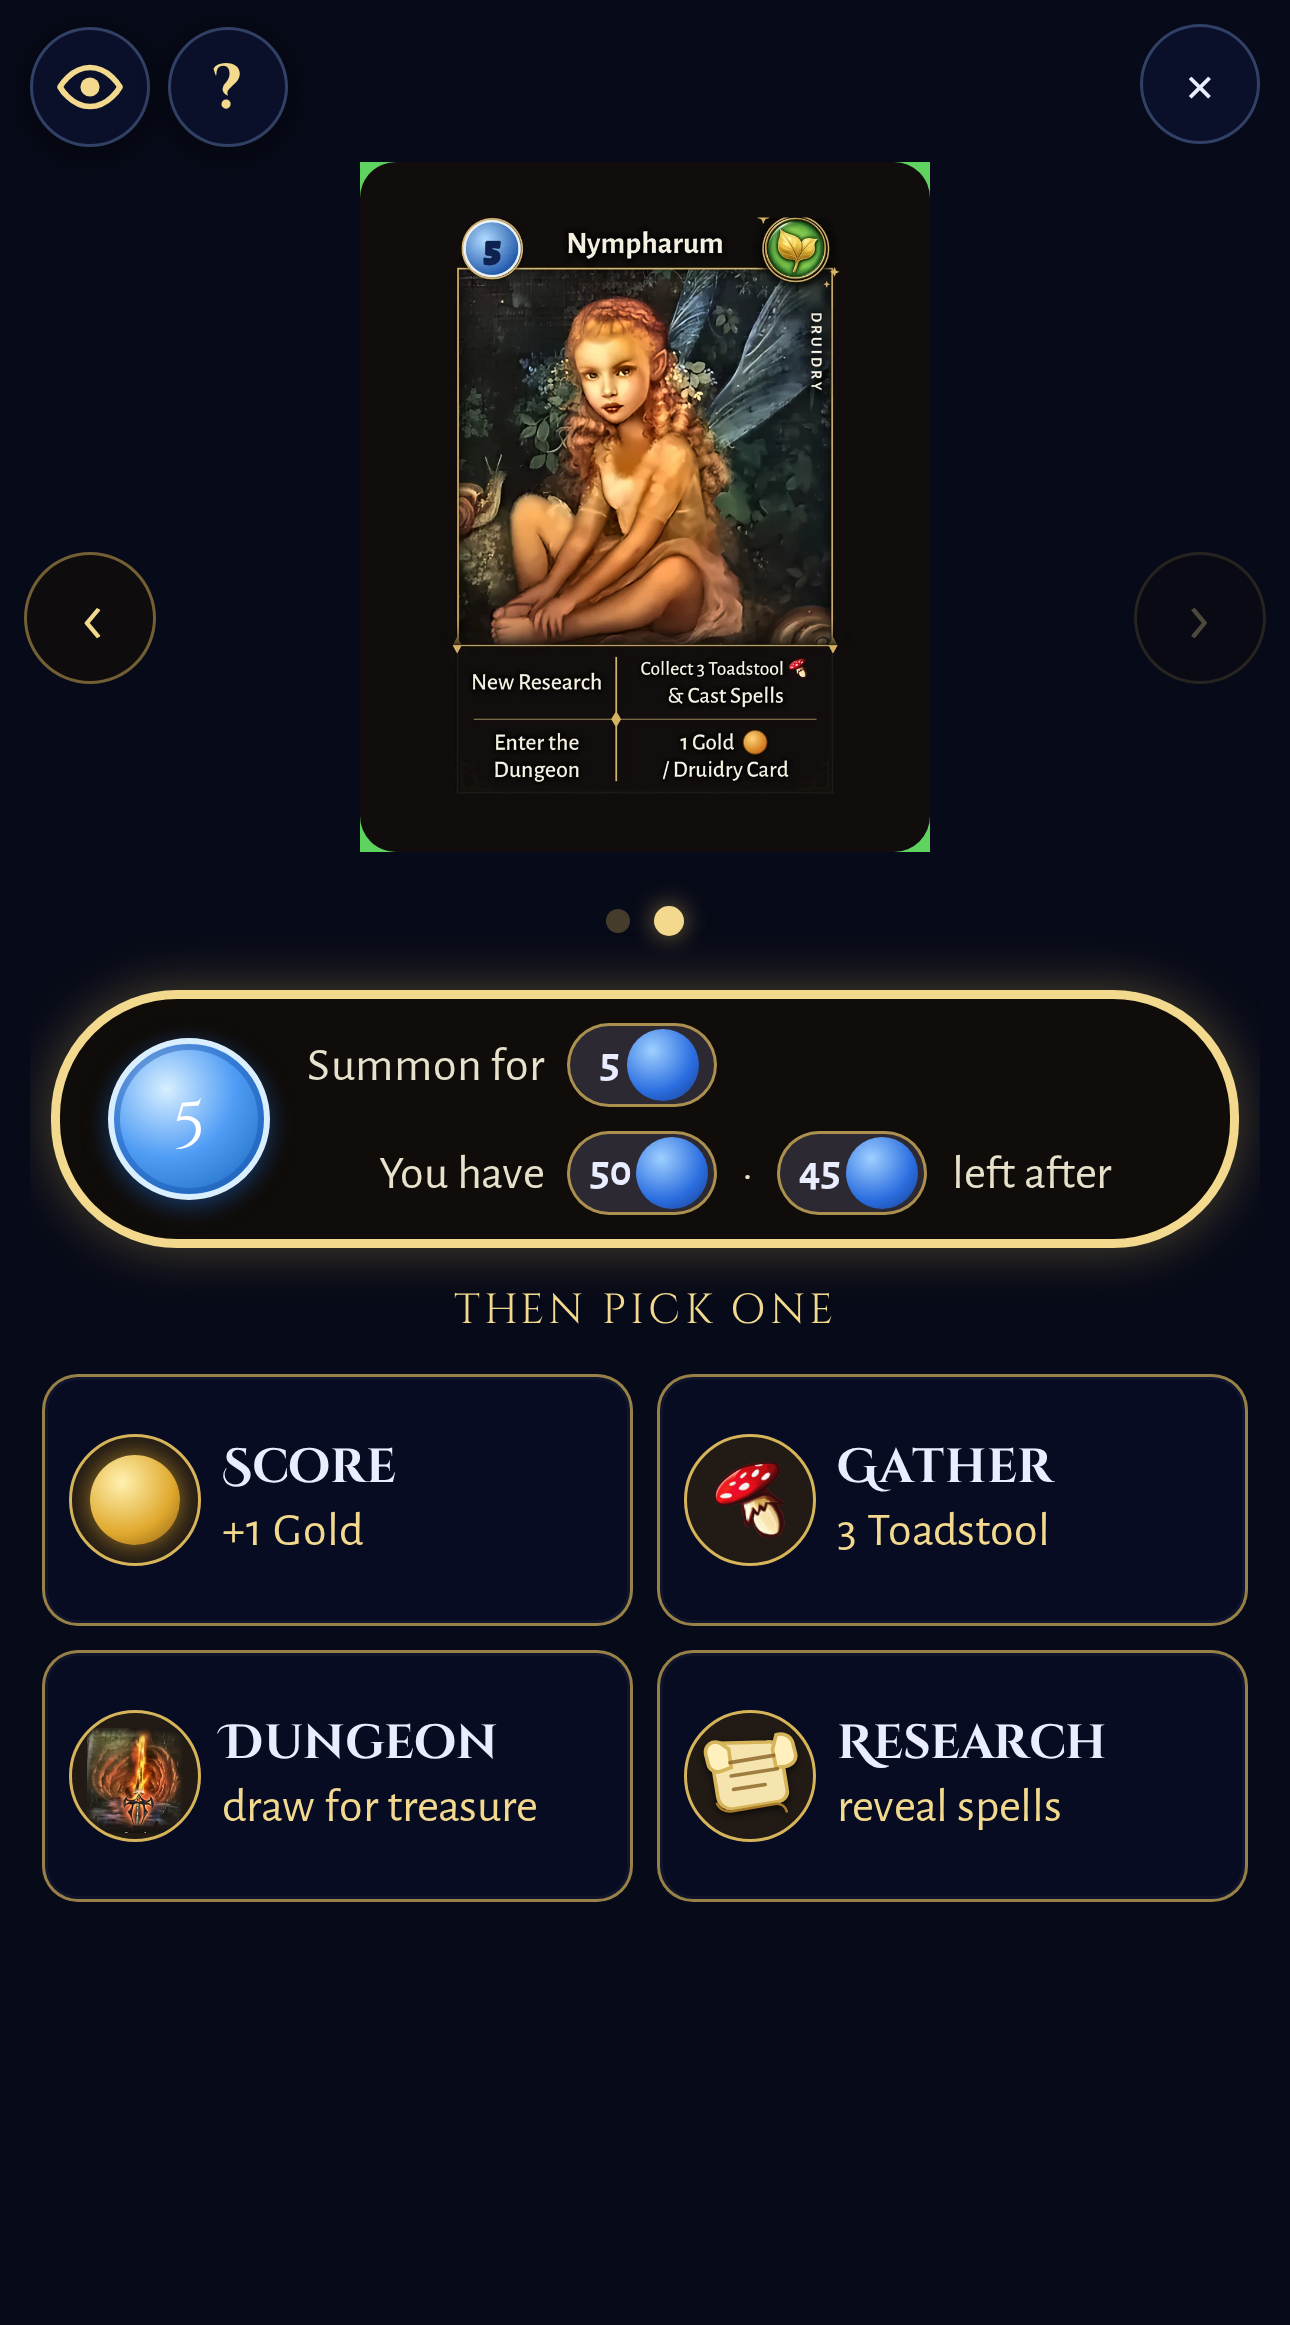
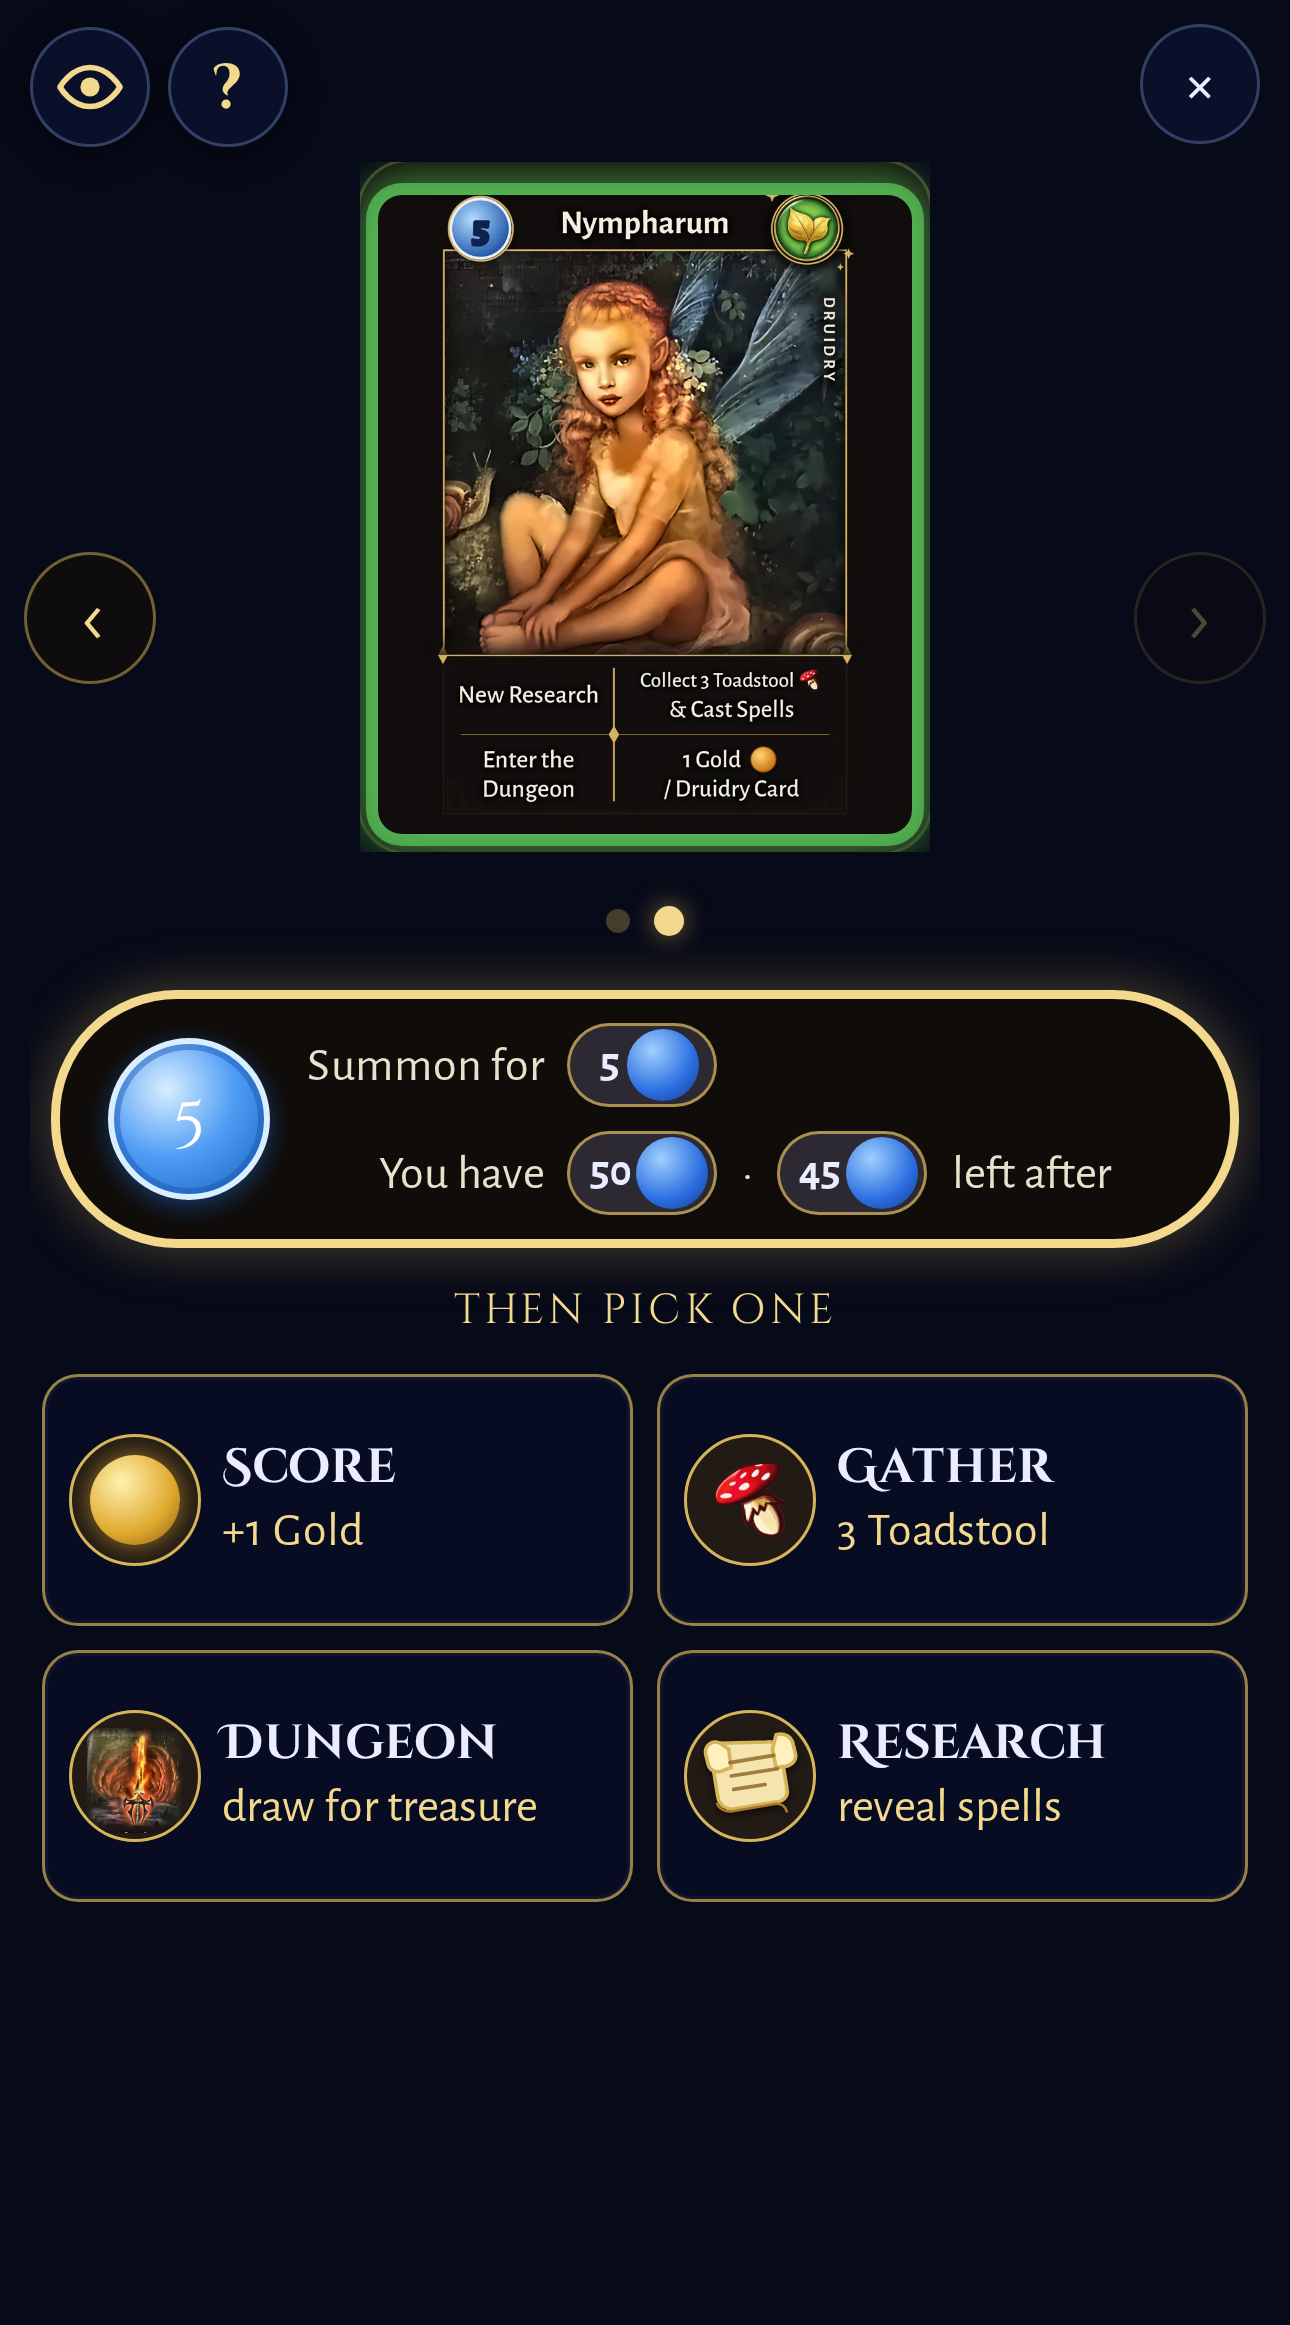
Put summon pulse glow on img.big inside frame padding (#167)
Animate box-shadow on img.big (summon-pulse-img) so the ring sits in the
frame gutter without track clipping or covering art. Drop frame-level
shadow and card scale; listen for img animationend in tests assert img
boxShadow at ~300ms peak.

Changed region(s): [[0.2791, 0.0619, 0.7442, 0.3716]]

diff --git a/app/css/app.css b/app/css/app.css
@@ -813,32 +813,24 @@ input[type=range].slider::-moz-range-thumb { width: 28px; height: 28px; border-r
 }
 .expand.summon-pulse-stage .card-track .big-frame:not(.summon-pulse) { visibility: hidden; pointer-events: none; }
 .expand .big-frame.summon-pulse {
-  border-radius: 12px;
   position: absolute;
   z-index: 1;
   overflow: visible;
-  animation: summon-pulse-glow .6s ease-out 1 both;
 }
-.expand .big-frame.summon-pulse .big {
-  transform: scale(0.93);
-  transform-origin: center center;
+.expand .big-frame.summon-pulse img.big {
+  border-radius: 8px;
+  animation: summon-pulse-img .6s ease-out 1 both;
 }
-.expand .big-frame.summon-pulse.summon-pulse-sorcery { --summon-pulse-color: rgb(94, 176, 255); --summon-pulse-outer: rgba(94, 176, 255, .65); }
-.expand .big-frame.summon-pulse.summon-pulse-alchemy { --summon-pulse-color: rgb(255, 192, 74); --summon-pulse-outer: rgba(255, 192, 74, .6); }
-.expand .big-frame.summon-pulse.summon-pulse-conjuring { --summon-pulse-color: rgb(255, 107, 74); --summon-pulse-outer: rgba(255, 107, 74, .6); }
-.expand .big-frame.summon-pulse.summon-pulse-druidry { --summon-pulse-color: rgb(95, 211, 95); --summon-pulse-outer: rgba(95, 211, 95, .65); }
-.expand .big-frame.summon-pulse.summon-pulse-enchantment { --summon-pulse-color: rgb(255, 143, 216); --summon-pulse-outer: rgba(255, 143, 216, .6); }
-.expand .big-frame.summon-pulse.summon-pulse-necromancy { --summon-pulse-color: rgb(143, 188, 255); --summon-pulse-outer: rgba(143, 188, 255, .65); }
-.expand .big-frame.summon-pulse.summon-pulse-thaumaturgy { --summon-pulse-color: rgb(255, 210, 63); --summon-pulse-outer: rgba(255, 226, 80, .88); }
-@keyframes summon-pulse-glow {
-  0%, 100% { box-shadow: 0 0 0 0 transparent; filter: none; }
-  50% {
-    box-shadow:
-      0 0 0 10px var(--summon-pulse-color),
-      0 0 0 12px var(--summon-pulse-color),
-      0 0 40px 20px var(--summon-pulse-outer, var(--summon-pulse-color));
-    filter: drop-shadow(0 0 14px var(--summon-pulse-color));
-  }
+.expand .big-frame.summon-pulse.summon-pulse-sorcery { --summon-pulse-color: rgb(94, 176, 255); }
+.expand .big-frame.summon-pulse.summon-pulse-alchemy { --summon-pulse-color: rgb(255, 192, 74); }
+.expand .big-frame.summon-pulse.summon-pulse-conjuring { --summon-pulse-color: rgb(255, 107, 74); }
+.expand .big-frame.summon-pulse.summon-pulse-druidry { --summon-pulse-color: rgb(95, 211, 95); }
+.expand .big-frame.summon-pulse.summon-pulse-enchantment { --summon-pulse-color: rgb(255, 143, 216); }
+.expand .big-frame.summon-pulse.summon-pulse-necromancy { --summon-pulse-color: rgb(143, 188, 255); }
+.expand .big-frame.summon-pulse.summon-pulse-thaumaturgy { --summon-pulse-color: rgb(255, 210, 63); }
+@keyframes summon-pulse-img {
+  0%, 100% { box-shadow: none; }
+  50% { box-shadow: 0 0 0 6px var(--summon-pulse-color), 0 0 22px 8px var(--summon-pulse-color); }
 }
 .mcard.score-school-blink { animation: score-school-blink .4s ease-out 1 both; border-radius: 6px; position: relative; z-index: 2; }
 .mcard.score-school-blink.score-school-sorcery { --score-blink-color: rgb(94, 176, 255); }

diff --git a/tests/e2e/summon-score-feedback.spec.js b/tests/e2e/summon-score-feedback.spec.js
@@ -74,16 +74,18 @@ async function captureLivePulsePeak(page, { index, rgbRe, shotPath }) {
     const frame = document.querySelector(`.big-frame.summon-pulse[data-index="${idx}"]`);
     if (!frame?.dataset.pulseStart) return false;
     const elapsed = performance.now() - Number(frame.dataset.pulseStart);
-    const bs = getComputedStyle(frame).boxShadow;
+    const img = frame.querySelector('img.big');
+    const bs = img ? getComputedStyle(img).boxShadow : 'none';
     const re = new RegExp(source);
     return elapsed >= 200 && elapsed <= 500 && bs !== 'none' && re.test(bs);
   }, { idx: index, source: rgbRe.source }), { timeout: 4000, intervals: [20] }).toBe(true);
   await waitSummonOverlayReady(page);
   const ring = await page.evaluate((idx) => {
     const frame = document.querySelector(`.big-frame.summon-pulse[data-index="${idx}"]`);
-    if (!frame) return null;
-    const cs = getComputedStyle(frame);
-    const rect = frame.getBoundingClientRect();
+    const img = frame?.querySelector('img.big');
+    if (!frame || !img) return null;
+    const cs = getComputedStyle(img);
+    const rect = img.getBoundingClientRect();
     return {
       index: frame.dataset.index,
       slug: frame.className,

diff --git a/app/js/action-feedback.js b/app/js/action-feedback.js
@@ -80,9 +80,12 @@ export function runSummonIntroPulse(overlayEl, school, cardIndex) {
     activeSummonPulse = { overlayEl, finish };
     let settled = false;
     const done = () => { if (settled) return; settled = true; finish(); };
-    frame.addEventListener('animationend', (e) => {
-      if (e.target === frame && e.animationName === 'summon-pulse-glow') done();
-    }, { once: true });
+    const img = frame.querySelector('img.big');
+    const onEnd = (e) => {
+      if (e.animationName === 'summon-pulse-img') done();
+    };
+    if (img) img.addEventListener('animationend', onEnd, { once: true });
+    else frame.addEventListener('animationend', onEnd, { once: true });
     setTimeout(done, SUMMON_PULSE_MS + 80);
   });
 }
